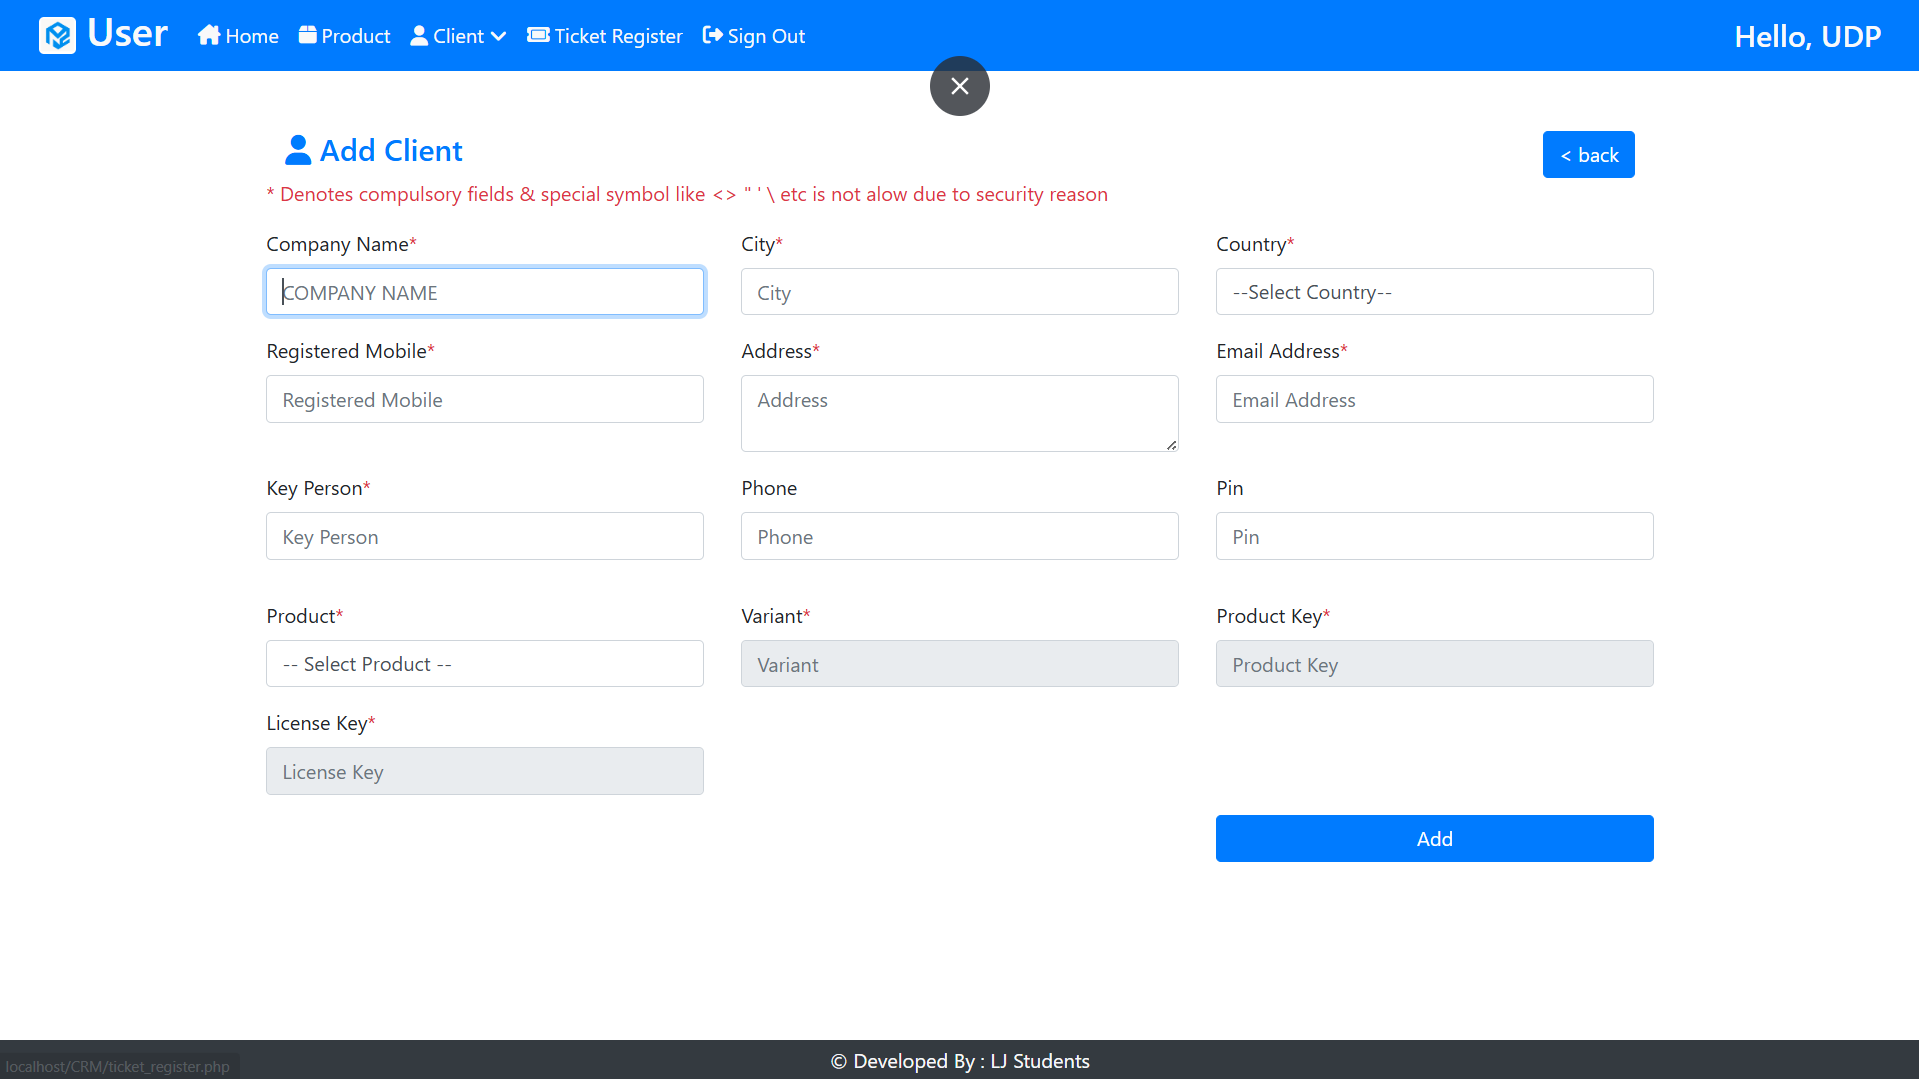
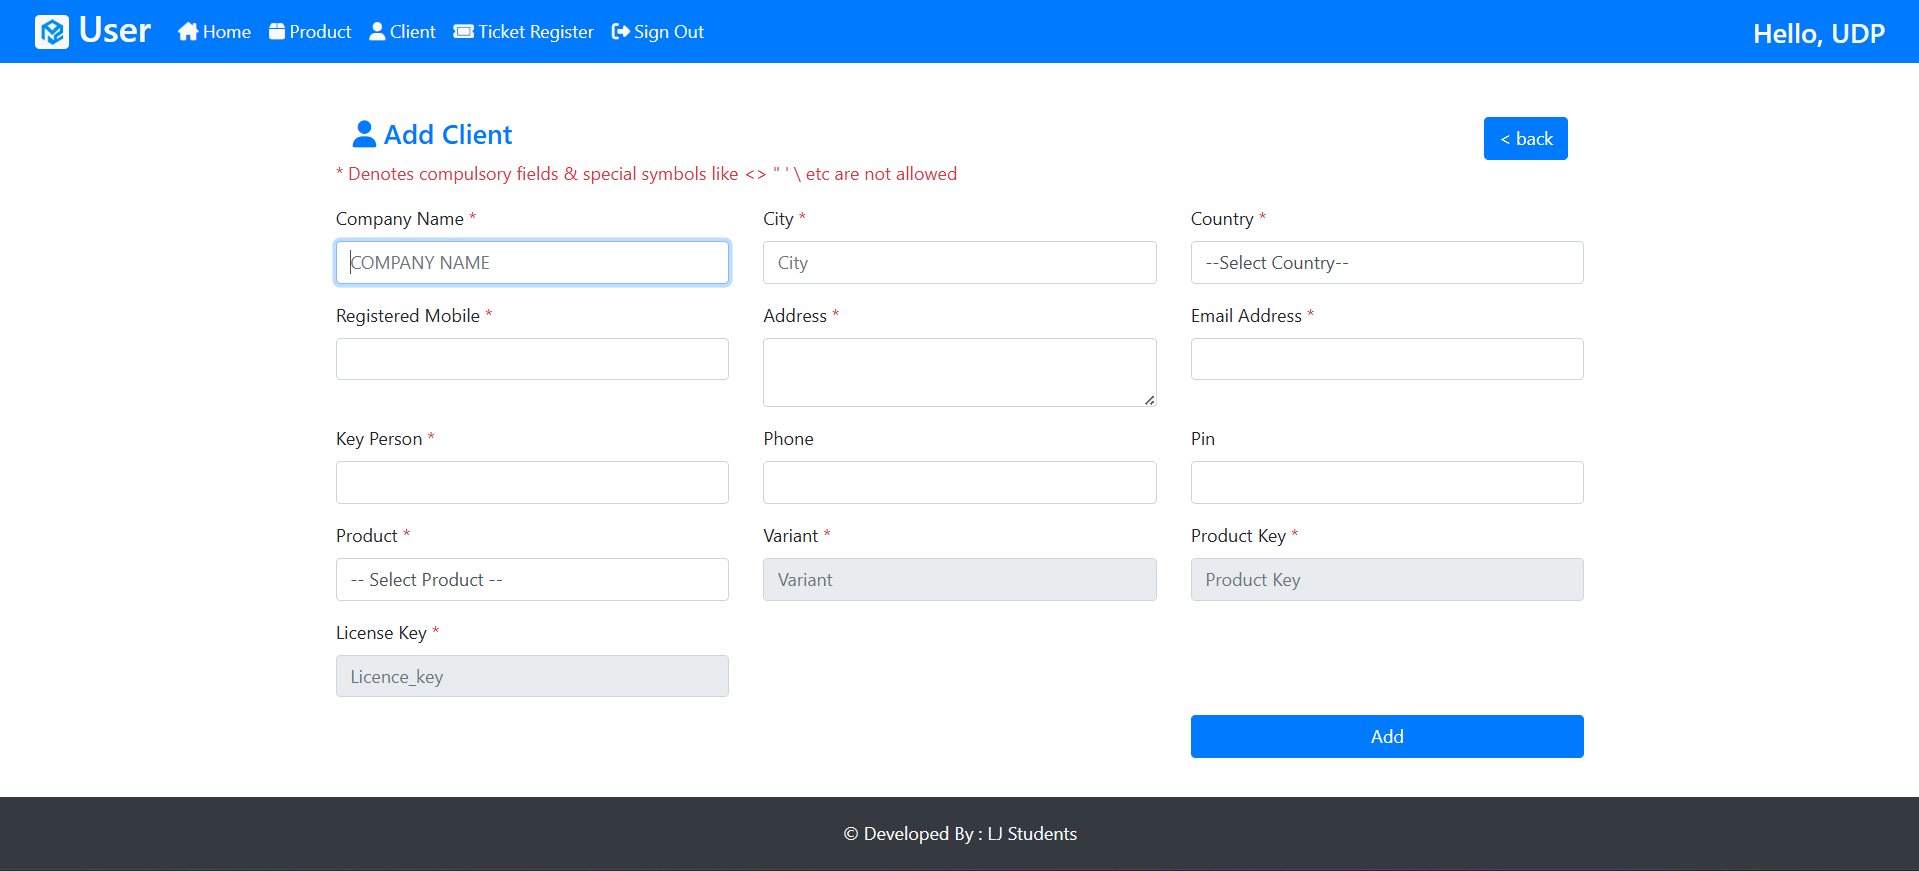
CRM

diff --git a/pages/footer.php b/pages/footer.php
@@ -9,10 +9,15 @@
     <link rel="stylesheet" href="https://cdn.jsdelivr.net/npm/bootstrap@4.1.3/dist/css/bootstrap.min.css" integrity="sha384-MCw98/SFnGE8fJT3GXwEOngsV7Zt27NXFoaoApmYm81iuXoPkFOJwJ8ERdknLPMO" crossorigin="anonymous">
 
     <title>Hello, world!</title>
+    <style>
+      .footer{
+        margin-top:auto;
+    }
+    </style>
   </head>
   <body>
     
-    <div class="footer text-center bg-dark position-fixed bottom-0 w-100 mt-3 mb-0 z-3 p-3">
+    <div class="footer text-center  bottom-0 bg-dark w-100 mb-0 z-3 p-3">
         <!-- <p class="text-capitalize py-1 mb-0 text-light">&copy developed by : mihir vaghela</p> -->
         <p class="text-capitalize py-1 mb-0 text-light">&copy developed by : LJ Students</p>
     </div>

diff --git a/README.md b/README.md
@@ -1,10 +1,21 @@
 <img src="./assets/images/screenshot/login.png" alt="Image">
 <img src="./assets/images/screenshot/register.png" alt="Image">
+<img src="./assets/images/screenshot/reset.png" alt="Image">
+<img src="./assets/images/screenshot/OTP.png" alt="Image">
+<img src="./assets/images/screenshot/change_pass.png" alt="Image">
+<img src="./assets/images/screenshot/home.png" alt="Image">
 <img src="./assets/images/screenshot/product.png" alt="Image">
-<img src="./assets/images/screenshot/add_product.png" alt="Image">
 <img src="./assets/images/screenshot/client.png" alt="Image">
 <img src="./assets/images/screenshot/add_client.png" alt="Image">
+<img src="./assets/images/screenshot/add_client2.png" alt="Image">
 <img src="./assets/images/screenshot/edit_client.png" alt="Image">
-<img src="./assets/images/screenshot/tickets.png" alt="Image">
+<img src="./assets/images/screenshot/ticket.png" alt="Image">
 <img src="./assets/images/screenshot/add_ticket.png" alt="Image">
-<!-- <img src="./assets/images/screenshot/.png" alt="Image"> -->
+<img src="./assets/images/screenshot/edit_ticket.png" alt="Image">
+<img src="./assets/images/screenshot/view_ticket.png" alt="Image">
+<img src="./assets/images/screenshot/sign_out.png" alt="Image">
+<img src="./assets/images/screenshot/dashboard.png" alt="Image">
+<img src="./assets/images/screenshot/admin_ticket.png" alt="Image">
+<img src="./assets/images/screenshot/admin_client.png" alt="Image">
+<img src="./assets/images/screenshot/admin_product.png" alt="Image">
+<img src="./assets/images/screenshot/admin_add_product.png" alt="Image">
